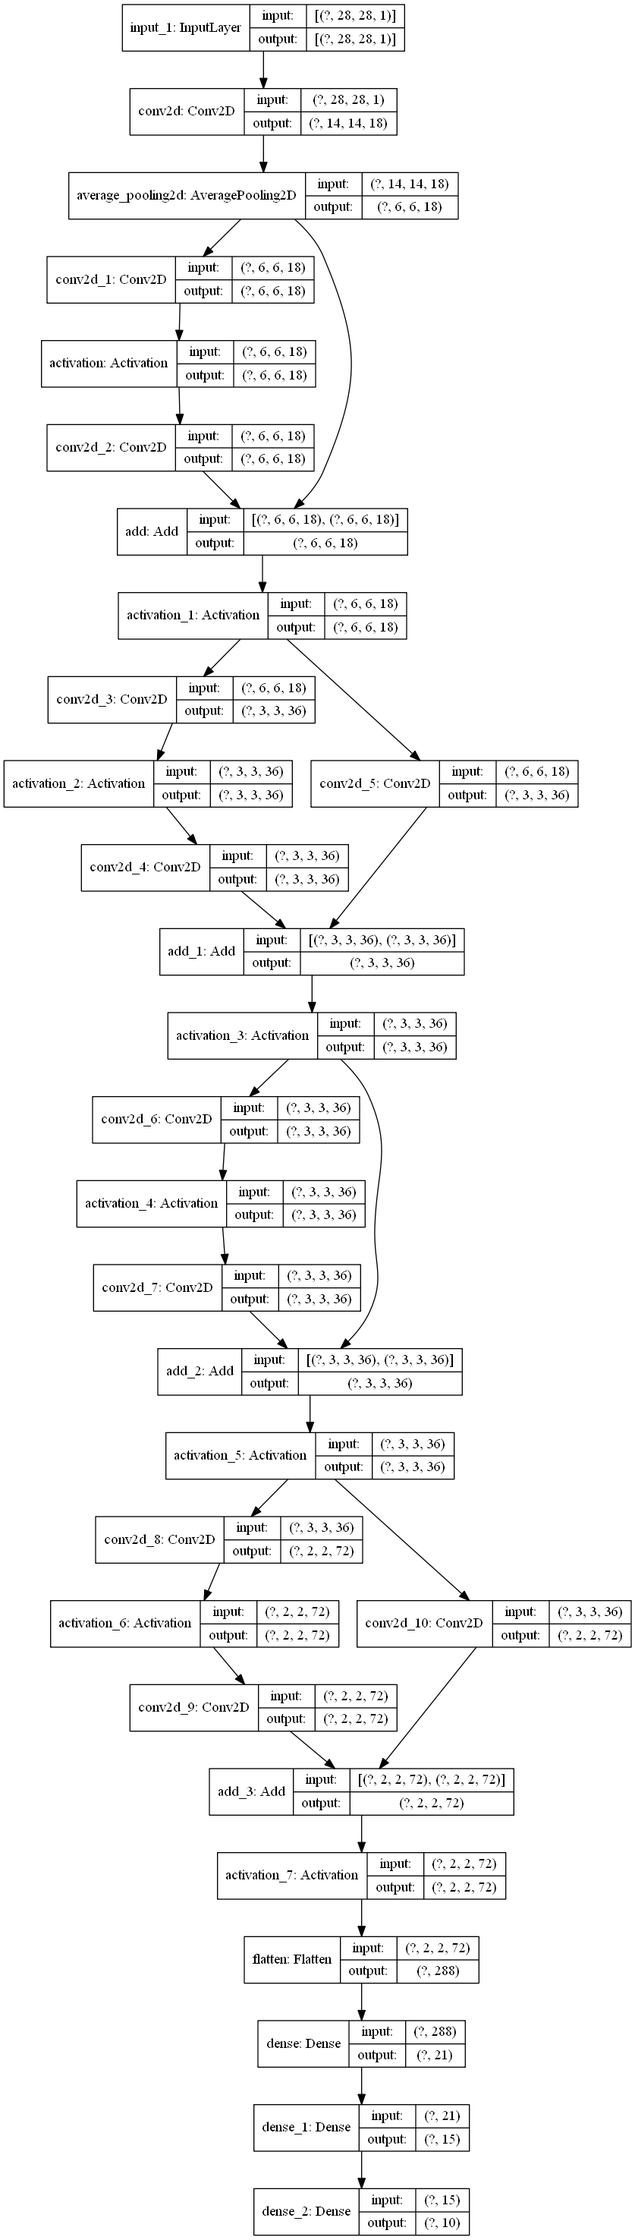
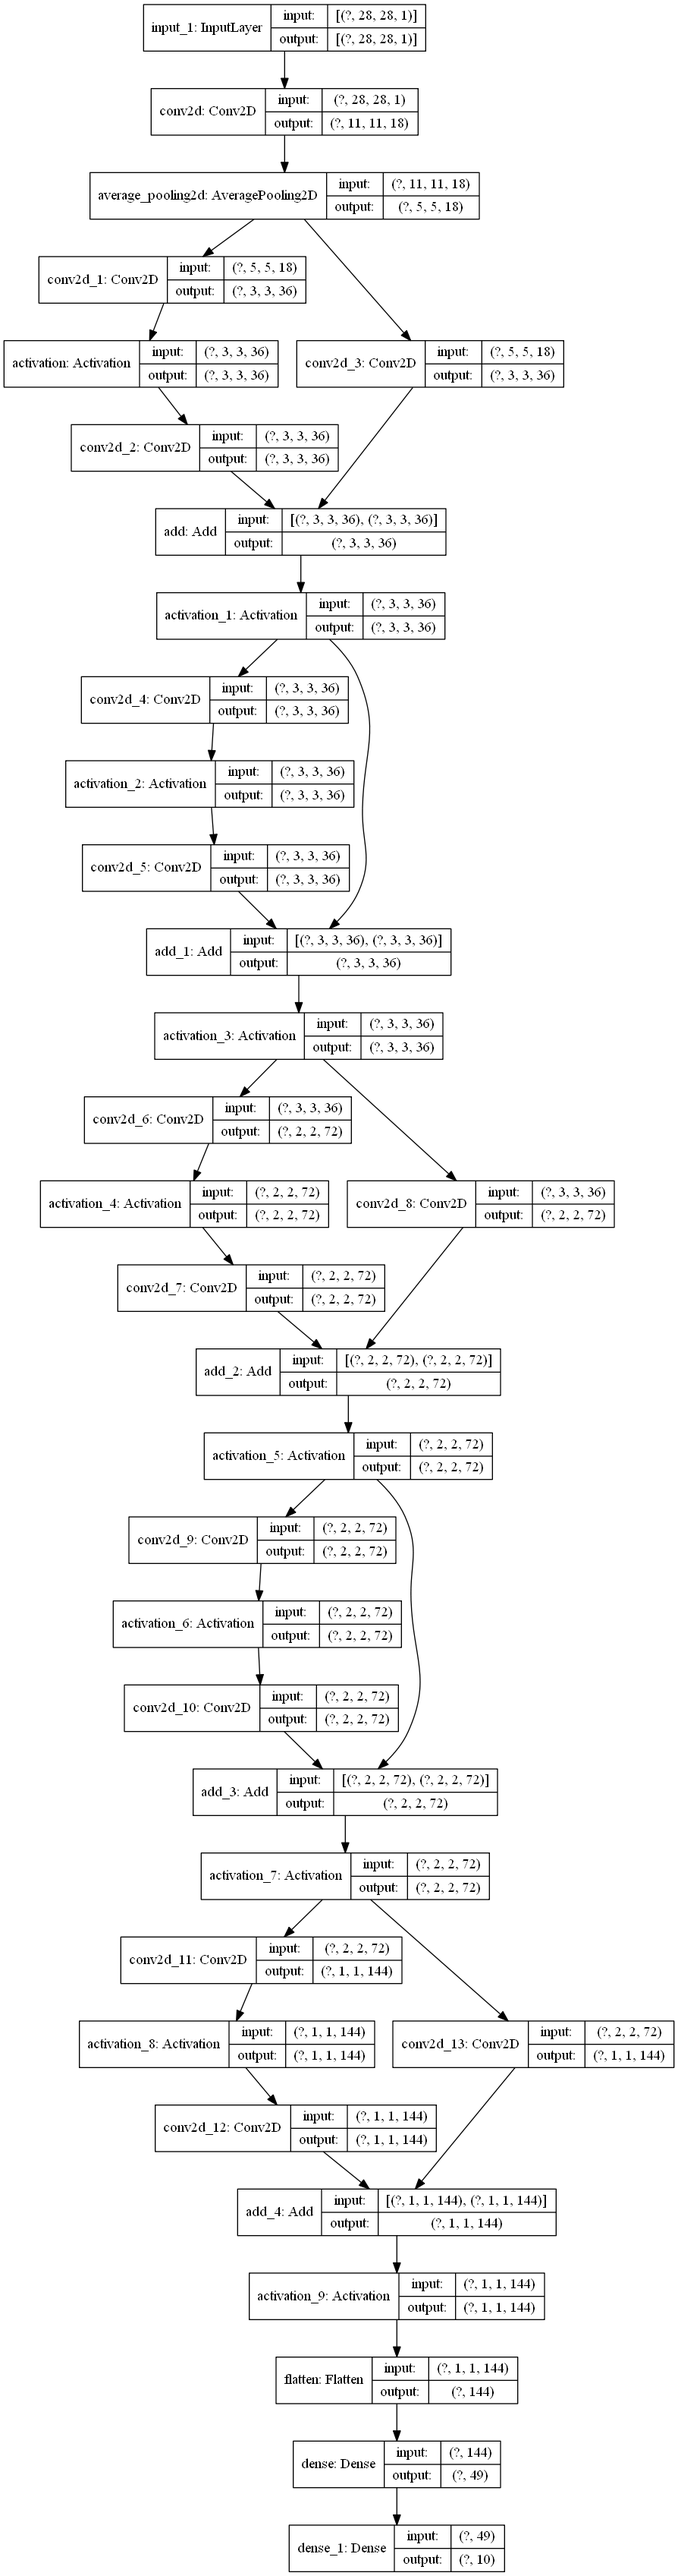
test fonctionnement generator

diff --git a/architecture_py/archi_resnet_test.py b/architecture_py/archi_resnet_test.py
@@ -75,24 +75,25 @@ try:
         return X
     def ResNet():
         X_input = X = Input([28, 28, 1])
-        X = Conv2D(18, kernel_size=7, strides=2, activation='relu', padding='same')(X)
+        X = Conv2D(18, kernel_size=7, strides=2, activation='tanh', padding='valid')(X)
         X = AveragePooling2D(pool_size=3, strides=2, padding='valid')(X)
-        X = id_block(X, 3, 18)
         X = conv_block(X, 3, 36, 2)
         X = id_block(X, 3, 36)
         X = conv_block(X, 3, 72, 2)
+        X = id_block(X, 3, 72)
+        X = conv_block(X, 3, 144, 2)
         model = Model(inputs=X_input, outputs=X, name='ResNet18')
         return model
 
     Input = ResNet()
     head_model = Input.output
     head_model = Flatten()(head_model)
-    head_model = Dense(21, activation='selu')(head_model)
-    head_model = Dense(15, activation='selu')(head_model)
+    head_model = Dense(49, activation='tanh')(head_model)
     head_model = Dense(10, activation='softmax')(head_model)
     model = Model(inputs=Input.input, outputs=head_model)
     plot_model(model, show_shapes=True, to_file="../architecture_img/archi_resnet_test.png")
     model.compile(optimizer='adam', loss=keras.losses.sparse_categorical_crossentropy, metrics=['accuracy'])
+    
     start = time()
     model.fit(train_x, train_y, epochs=5, validation_data=(val_x, val_y))
     training_time = time()-start
